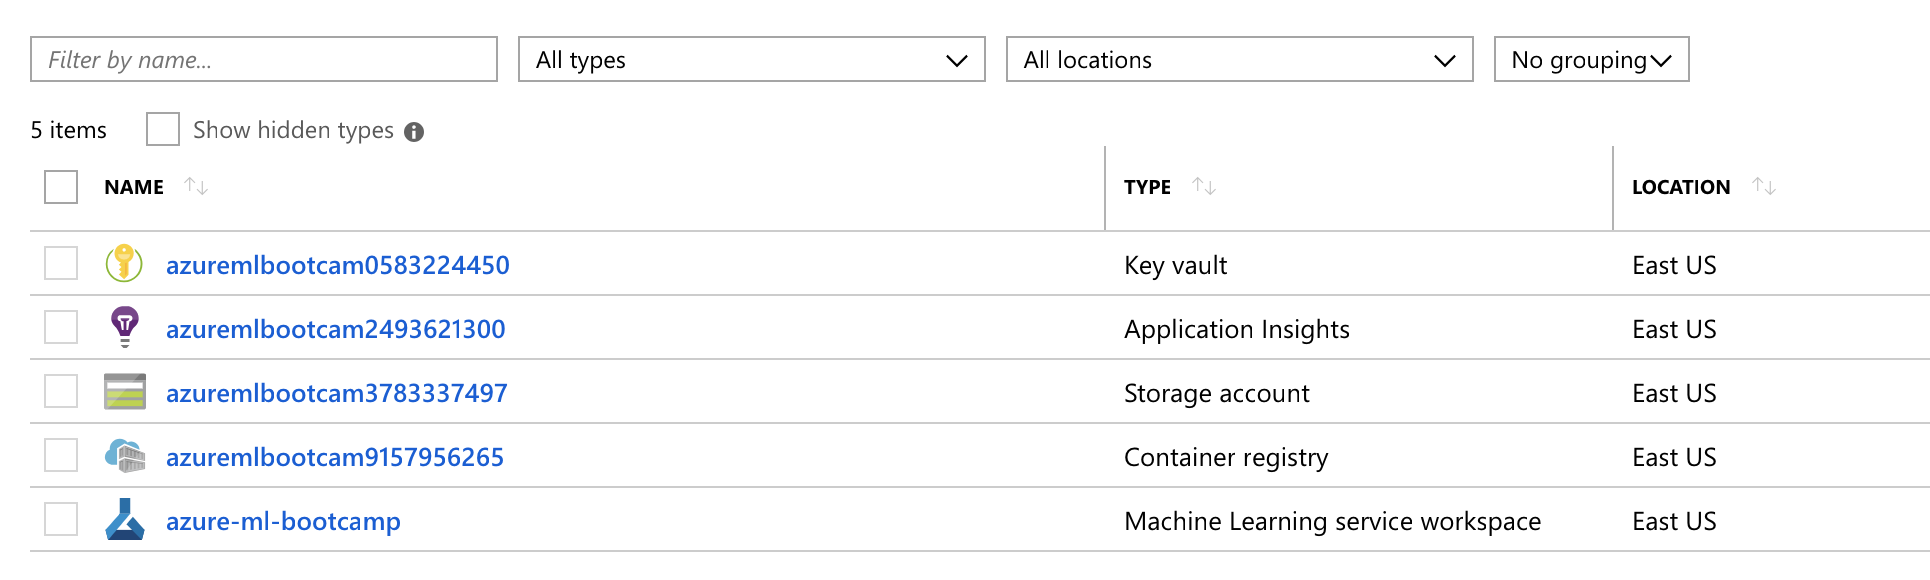
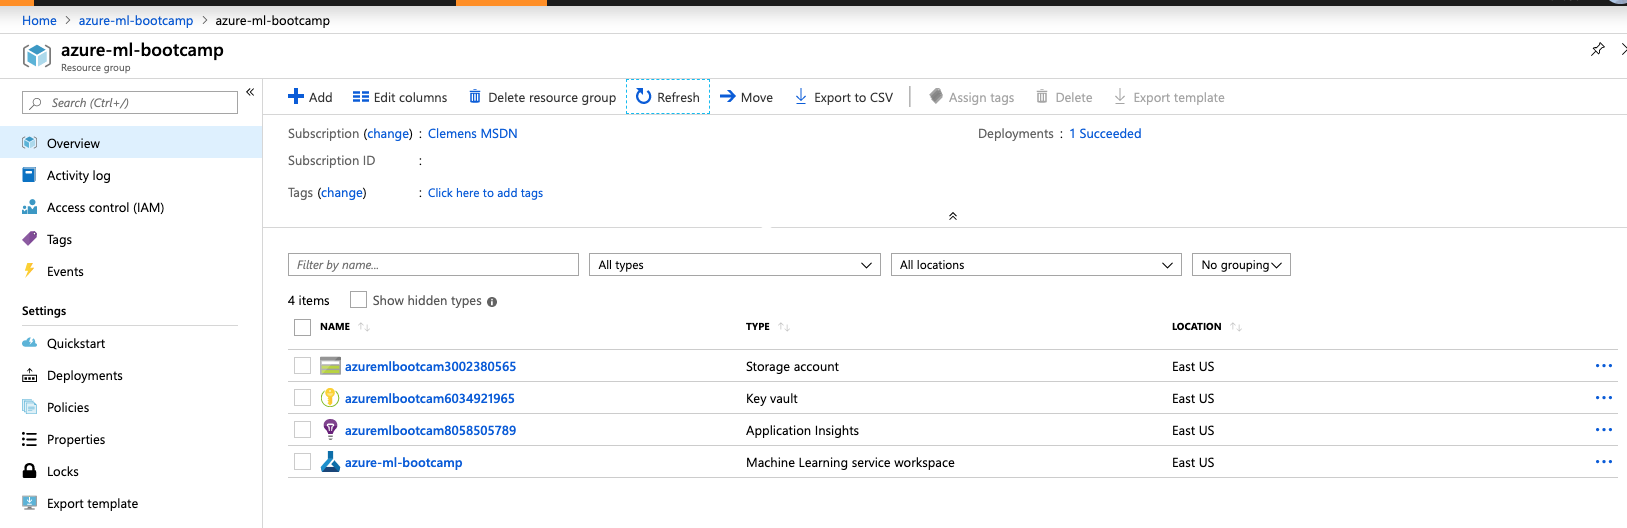
Updated Challenge 01

diff --git a/hints/challenge_01.md b/hints/challenge_01.md
@@ -19,43 +19,27 @@ Let's have a look at our Resource Group:
 * Application Insights - used for monitoring our models in production
 * Storage account - this will store our logs, model outputs, training/testing data, etc.
 * Key vault - stores our secrets
-* Container registry - stores our containerized models
 * Machine Learning service workspace - the centre point for Machine Learning on Azure
 
-# Creating a Data Science VM
+# Creating a Notebook VM
 
-First, create a new `Data Science Virtual Machine - Windows 2016`:
+Inside our `Machine Learning service workspace`, we'll create a new `Notebook VM`:
 
-![alt text](../images/01-create_dsvm.png "Data Science Virtual Machine")
+![alt text](../images/01-create_notebook_vm.png "Notebook VM")
 
-In case you see two versions, pick the one with the following description:
+Hit `+ New` and name it `bootcamp-vm` and keep it as `STANDARD_D3_V2`:
 
-![alt text](../images/01-correct_dsvm.png "Data Science Virtual Machine")
+![alt text](../images/01-bootcamp_notebook_vm.png "Creating the Notebook VM for the bootcamp")
 
-We can keep all the defaults, we just need to make sure that it is also in `East US`:
+It'll take a few minutes until the VM has been created. The primary use for this VM is that we all have the same Jupyter environment. In this exercise, we'll also use this VM to train a simple Machine Learning model. In a real-world setup, we might even consider using a GPU-enable instance, in case we need to perform Deep Learning.
 
-![alt text](../images/01-create_dsvm2.png "Data Science Virtual Machine")
+It'll take around 5-7 minutes until the VM is provisioned and configured.
 
-(Configuration of auto-shutdown might also be a good idea - I know that some of you won't shut this down after the workshop...:satisfied::wink:)
+Once it is running, the UI will already give us a links to `Jupyter` and `JupyterHub`. To keep things simple, we'll use `Jupyter` throughout this bootcamp, but if you feel adventurous, use `JupyerHub`.
 
-In a real-world setup, we would probably want to use a GPU-enabled instance, but for today we'll keep it simple (...and less expensive). Once the VM has started, connect to it via `RDP`.
+You'll be using your AAD (Azure Active Directory) user to log into `Jupyter`. From a enterprise security point, this is a big plus. No extra credentials needed! :raised_hands:
 
-First, open up a command shell (`cmd.exe`) and quickly update the Azure Machine Learning SDK to the latest version:
-
-```
-conda activate AzureML
-pip install --upgrade azureml-sdk[notebooks,automl] azureml-dataprep
-```
-
-The `Data Science VM` is usually up-to-date, but since the `Azure Machine Learning Python SDK` is moving forward more quickly, let's make sure we run the latest version.
-
-Next, we'll start up our Jupyter Notebooks on the VM, we'll find the icon straight on the desktop:
-
-![alt text](../images/01-jupyter_icon.png "Jupyter")
-
-In command line, we can find the URL and the initial token for authentication. With the browser of your choice, open the address printed on the command line on log in. In some cases, IE opens automatically and will directly bring you into Jupyter.
-
-![alt text](../images/01-jupyter_starting.png "Jupyter Command Line")
+![alt text](../images/01-notebook_vm_ready.png "Our Notebook VM is running")
 
 # Initial Azure Machine Learning Setup
 
@@ -75,7 +59,7 @@ The `config.json` is used by the `Azure Machine Learning SDK` to connect to your
 
 Download [`utils.py`](../utils.py) and upload it into your Jupyter instance (or click `New`, create an empty file called `utils.py` and copy/paste the content, but make sure to only copy the Python code). We'll need this file later for our Machine Learning example code.
 
-Finally, we can click the `New` button and create a new Notebook of type: `Python [conda env:AzureML]`. A new browser tab should open up and we can click the name `Untitled` and rename it to `challenge01.ipynb`.
+Finally, we can click the `New` button and create a new Notebook of type: `Python 3.6 - AzureML`. A new browser tab should open up and we can click the name `Untitled` and rename it to `challenge01.ipynb`.
 
 ![alt text](../images/01-create_notebook_file.png "Our new Azure Notebook for our code")
 
@@ -89,7 +73,9 @@ from azureml.core import Workspace, Experiment, Run
 ws = Workspace.from_config()
 ```
 
-You can run the cell by hitting `Run` or pressing `Shift+Enter`. This cell imports the relevant libraries from the Azure Machine Learning SDK, reads our `config.json` and connects the notebook to our Machine Learning Workspace in Azure. You will need to authenticate to your Azure subscription (a browser window will open, but might not pop to the front - click the IE icon in the taskbar).
+You can run the cell by hitting `Run` or pressing `Shift+Enter`. Code cells have brackets before them. If the brackets are empty ([ ]), the code has not been run. While the code is running, you see an asterisk([*]). After the code completes, a number [1] appears. The number tells you the order in which the cells ran.
+
+This first cell imports the relevant libraries from the Azure Machine Learning SDK, reads our `config.json` and connects the notebook to our Machine Learning Workspace in Azure. You will need to authenticate to your Azure subscription (a browser window will open, but might not pop to the front - click the IE icon in the taskbar).
 
 ***Note (when experiencing subscription ID errors):***
 
@@ -101,7 +87,7 @@ If you are using multiple subscriptions, it might be required to tell the Jupyte
 
 Once you have ran the cell, restart the Notebook kernel (`Kernel` --> `Restart & Clear Output`) and wait a few seconds until it has restarted.
 
-Next, let's create a new experiment (this will later show up in our ML Workspace in Azure). This is where all our experiments will be logged to:
+Next, let's create a new experiment (this will later show up in our ML Workspace in Azure after you've ran the first experiment). This is where all our experiments will be logged to:
 
 ```python
 experiment = Experiment(workspace = ws, name = "scikit-learn-mnist")
@@ -156,7 +142,7 @@ run.log('accuracy', acc)
 run.complete()
 ```
 
-On a `Ds3 v2 (4 vcpus, 14 GB memory)` instance, the code should take around 1-2 minutes to run.
+On our `STANARD_D3_V2` instance, the code should take around 2-3 minutes to run. Any warnings you get can be ignored.
 
 In summary, the code does the following things:
 
@@ -182,7 +168,7 @@ If we click the run number, we can see its details:
 
 ![alt text](../images/01-run_details.png "Run Details")
 
-Here we could log more values or even time series, which would directly show up as diagrams. However, as we want to keep the code short, we'll skip this part for now.
+Here we could log more values or even time series, which would directly show up as diagrams. However, as we want to keep the code short, we'll skip this part for now (more on that in challenge 2).
 
 Finally, we can export our model and upload it to our Azure ML Workspace:
 
@@ -196,7 +182,7 @@ joblib.dump(value=clf, filename='scikit-learn-mnist.pkl')
 run.upload_file(name = 'outputs/scikit-learn-mnist.pkl', path_or_stream = './scikit-learn-mnist.pkl')
 ```
 
-In the portal, we can see the output of our run:
+In the portal, we can now see the output of our run:
 
 ![alt text](../images/01-run_model.png "Our model output in our ML Workspace")
 
@@ -224,10 +210,18 @@ Our model has been stored in the Storage Account that has been created initially
 
 At this point:
 
-* We've trained a Machine Learning model using Scikit-Learn inside our Jupyter Notebook (running in a Data Science VM on Azure)
+* We've trained a Machine Learning model using Scikit-Learn inside a `Notebook VM` running `Jupyter`
 * We achieved `92%` accuracy (not very good for this data set)
 * Azure ML knows about our experiment and our initial run and results
 * Azure ML has the output files of our trained model in Blob storage
 * We have registered our initial model as a Azure ML Model in our Workspace
+
+If we have another look into our resource group `azure-ml-bootcamp`, we can see that the Notebook VM actually sits inside this group:
+
+![alt text](../images/01-notebook_vm_portal.png "Notebook VM resources in portal")
+
+Furthermore, we can go into our Workspace and also see it listed under `Compute`:
+
+![alt text](../images/01-notebook_vm_workspace.png "Notebook VM resources in our workspace")
 
 In the [next challenge](challenge_02.md), we'll build a more powerful model and use Azure Machine Learning Compute to train it on a remote cluster.

diff --git a/README.md b/README.md
@@ -1,4 +1,4 @@
-# Azure Machine Learning Bootcamp Materials (Version 1.3)
+# Azure Machine Learning Bootcamp Materials (Version 1.4)
 
 Azure Machine Learning is now [general available](https://azure.microsoft.com/en-us/blog/azure-machine-learning-service-a-look-under-the-hood/).
 
@@ -28,9 +28,9 @@ The goal is to build a machine learning model, that
 
 Guidance:
 * Deploy from Azure Portal: `Machine Learning service workspace`
-* We'll be writing our code in a Jupyter Notebook in a [DSVM (Data Science Virtual Machine)](https://azure.microsoft.com/en-us/services/virtual-machines/data-science-virtual-machines/)
+* We'll be writing our code in a Jupyter Notebook in a [Notebook VM](https://docs.microsoft.com/en-us/azure/machine-learning/service/quickstart-run-cloud-notebook)
 * This file is helpful: [`utils.py`](utils.py)
-* Use `Python [conda env:AzureML]` as the Notebook type in Jupyer
+* Use `Python 3.6 - AzureML` as the Notebook type in Jupyter (create a new folder before starting)
 * We'll be using `scikit-learn` to build a simple `LogisticRegression` classifier
 * Target accuracy of our model on the test data set: `>90%`
 
